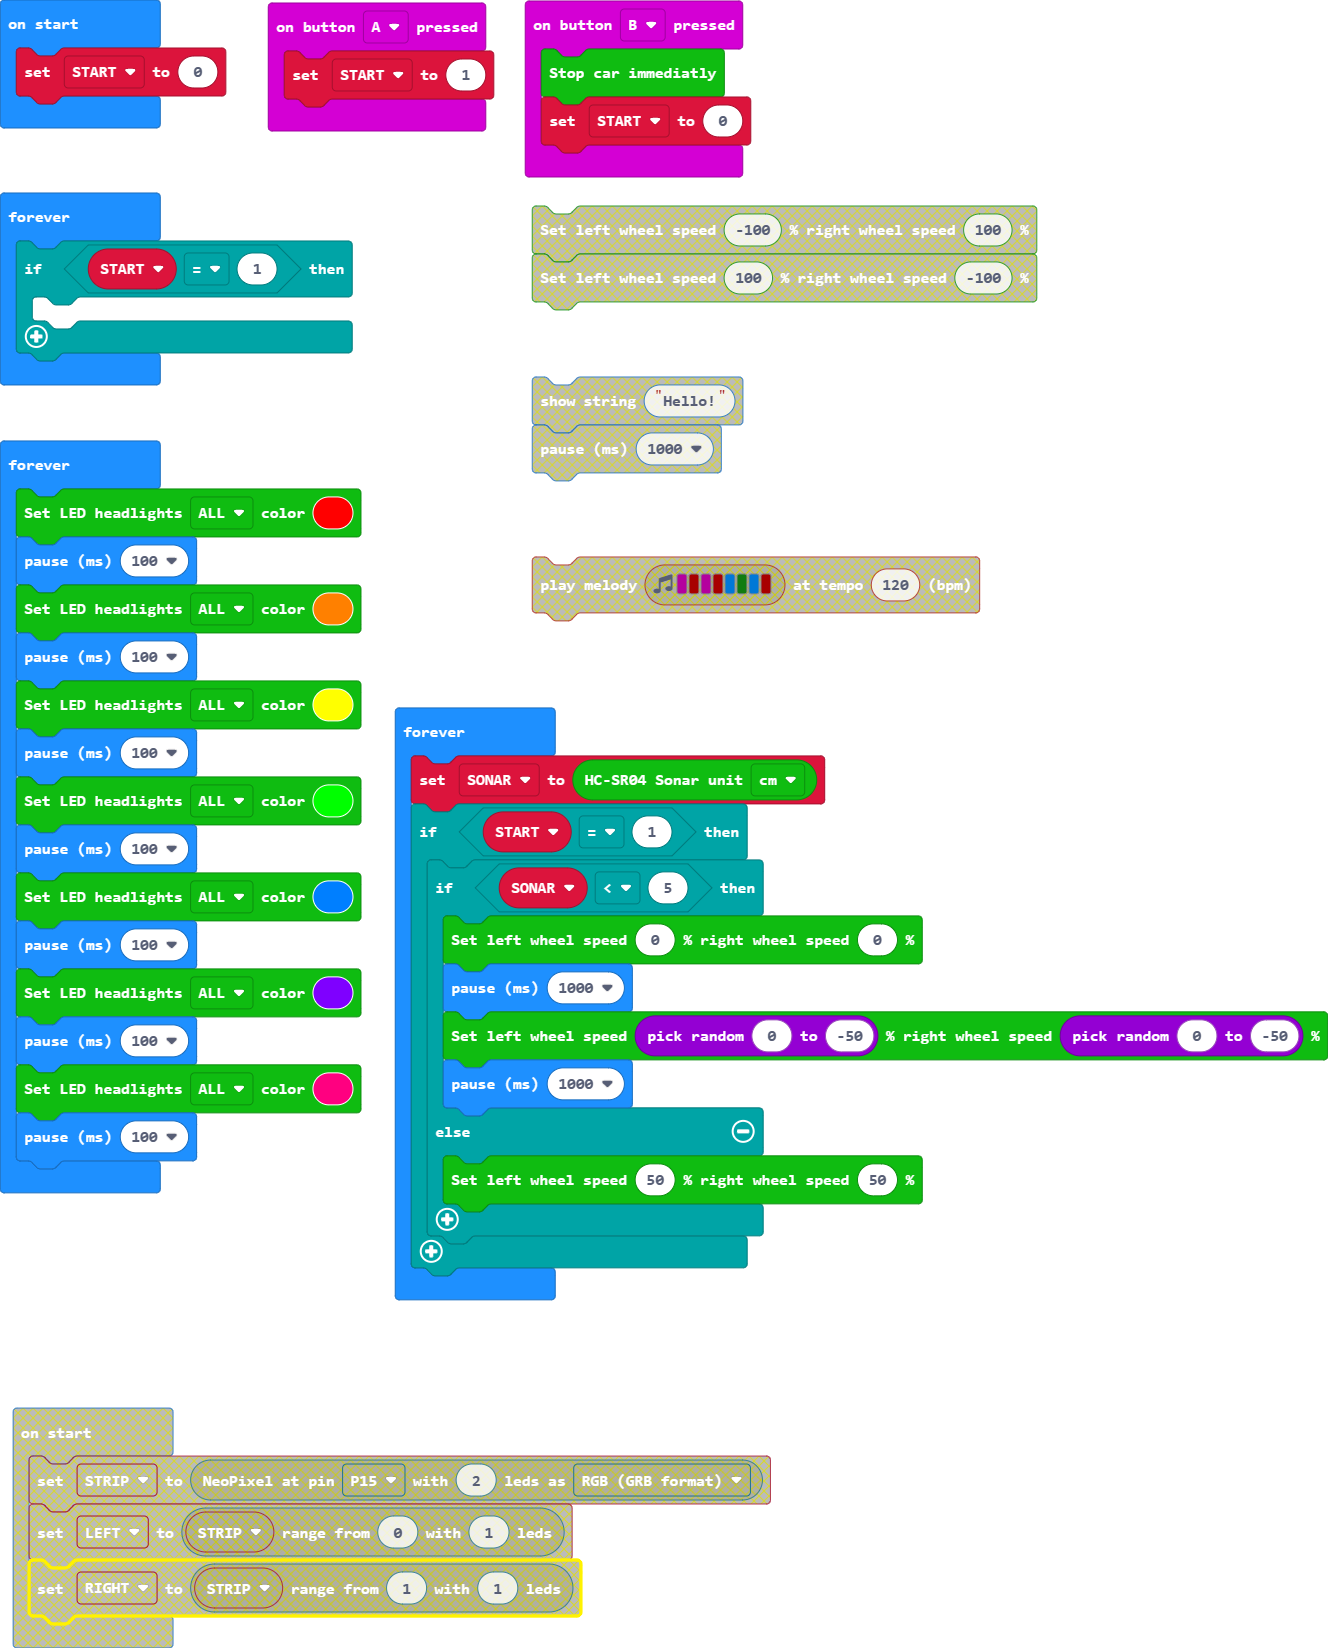
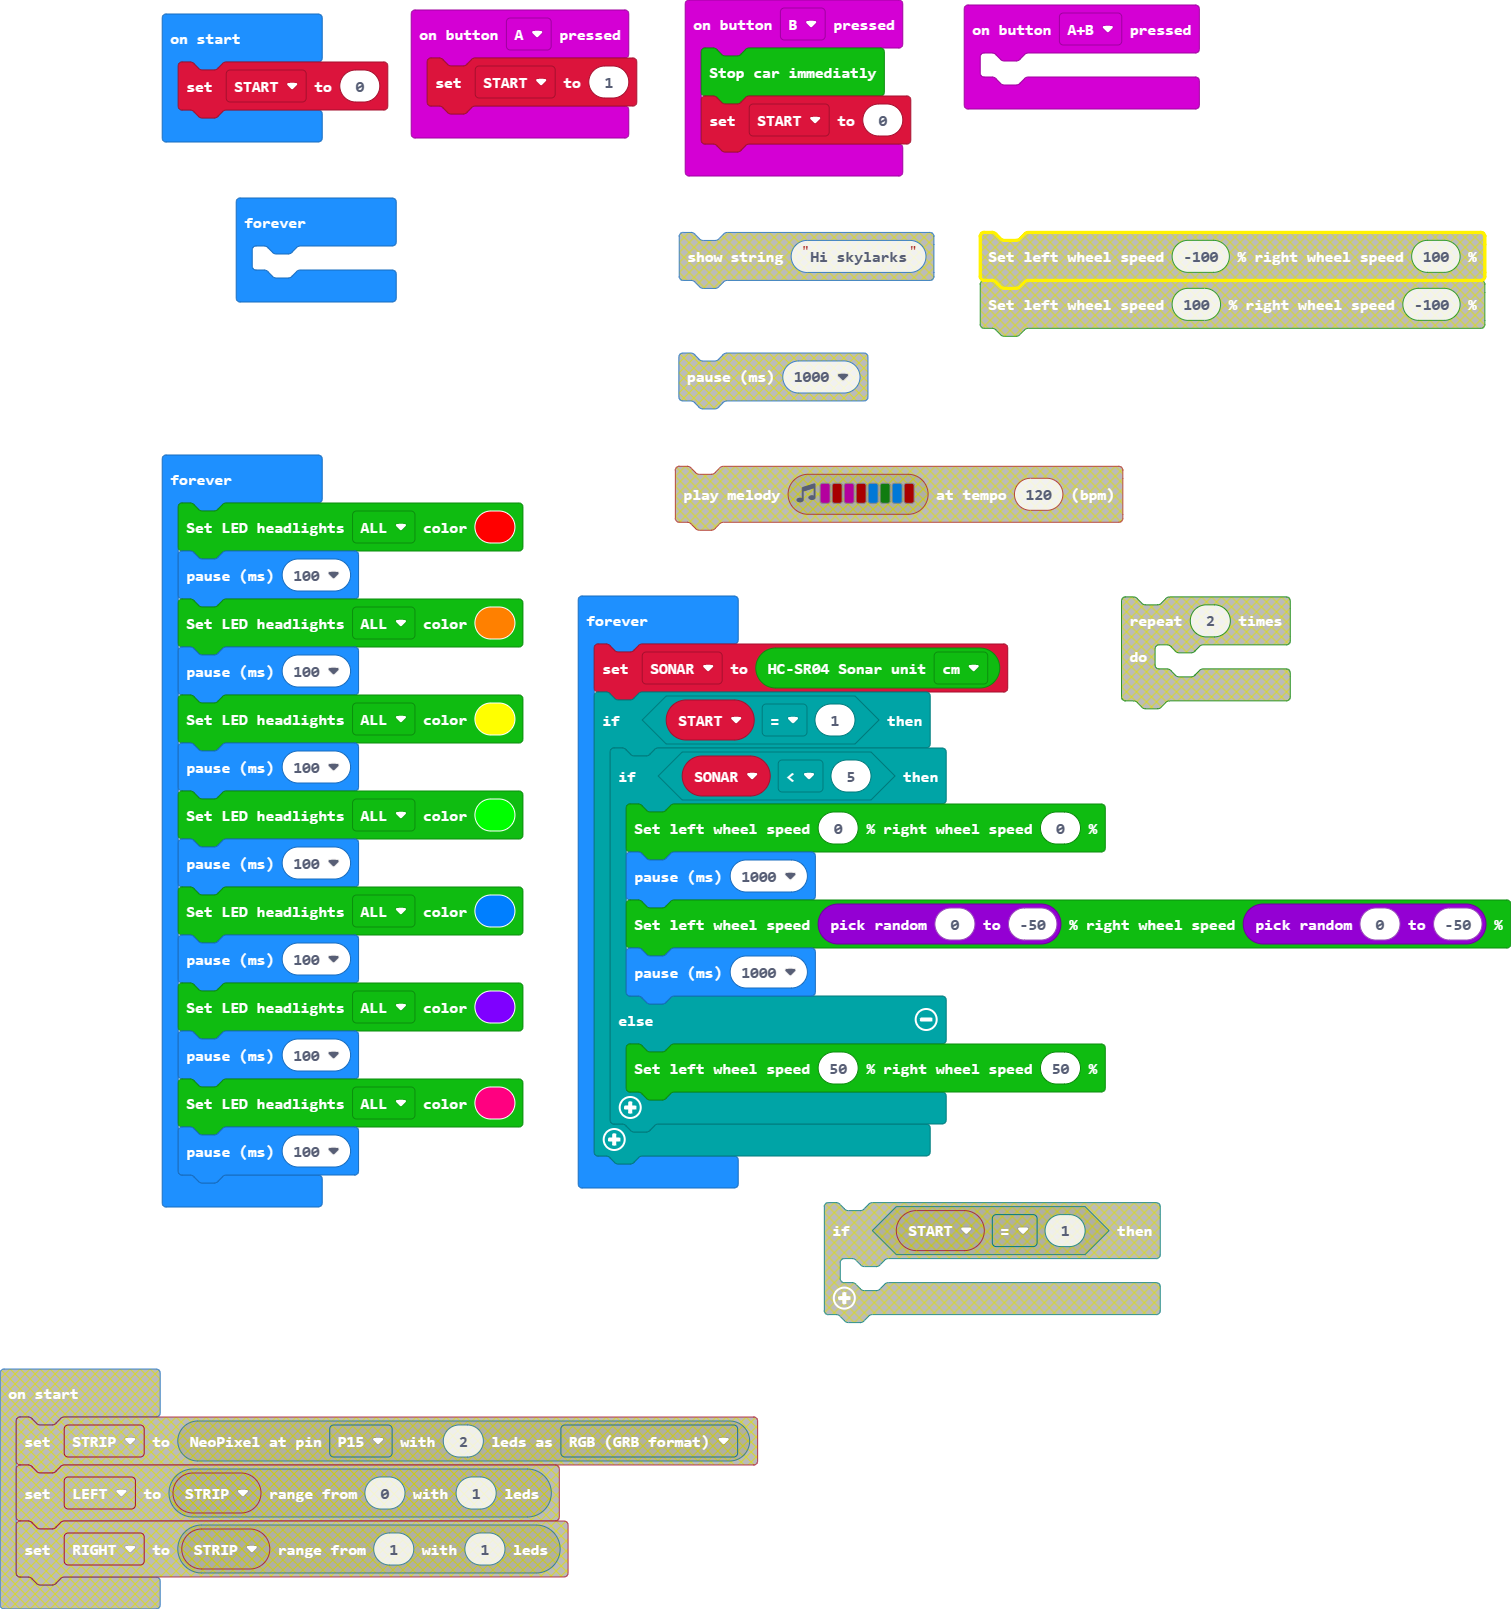
Update main.blocks, main.ts

diff --git a/main.ts b/main.ts
@@ -1,6 +1,9 @@
 input.onButtonPressed(Button.A, function () {
     START = 1
 })
+input.onButtonPressed(Button.AB, function () {
+	
+})
 input.onButtonPressed(Button.B, function () {
     cuteBot.stopcar()
     START = 0
@@ -9,9 +12,7 @@ let SONAR = 0
 let START = 0
 START = 0
 basic.forever(function () {
-    if (START == 1) {
-    	
-    }
+	
 })
 basic.forever(function () {
     cuteBot.colorLight(cuteBot.RGBLights.ALL, 0xff0000)
